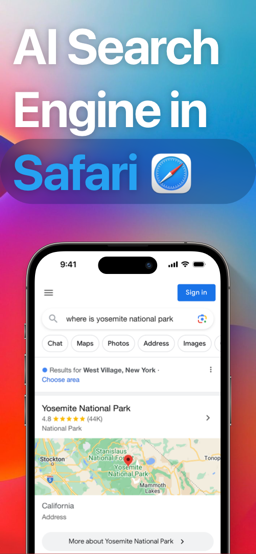
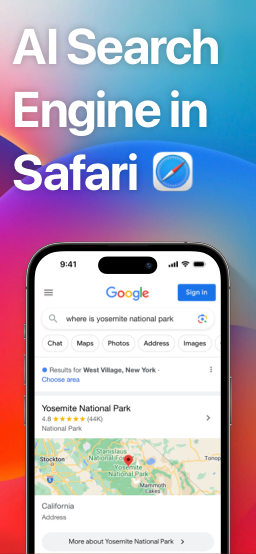
README badges

diff --git a/README.md b/README.md
@@ -2,15 +2,20 @@
 
 > Ask anything.
 
-[![safari-extension](/.README/assets/badges/safari-extension.svg)](https://parrotflow.com)
-[![haptics](/.README/assets/badges/haptics.svg)](https://parrotflow.com)
+[![download-app](/.README/assets/badges/download-app.svg)](https://parrotflow.com)
+[![download-extension](/.README/assets/badges/download-extension.svg)](https://parrotflow.com)
 [![github-star](/.README/assets/badges/github-star.svg)](https://github.com/jsj/parrotflow)
+[![haptics](/.README/assets/badges/haptics.svg)](https://parrotflow.com)
+[![license](/.README/assets/badges/license.svg)](https://parrotflow.com/license)
+[![works-with-google](/.README/assets/badges/works-with-google.svg)](https://parrotflow.com)
+[![xcode-cloud](/.README/assets/badges/xcode-cloud.svg)](https://parrotflow.com)
 
 ## Screens
 
 ![demo](/.README/assets/screens/demo.gif)
 ![0](/.README/assets/screens/0.png)
 ![1](/.README/assets/screens/1.png)
+![2](/.README/assets/screens/1.png)
 
 ## Download
 
